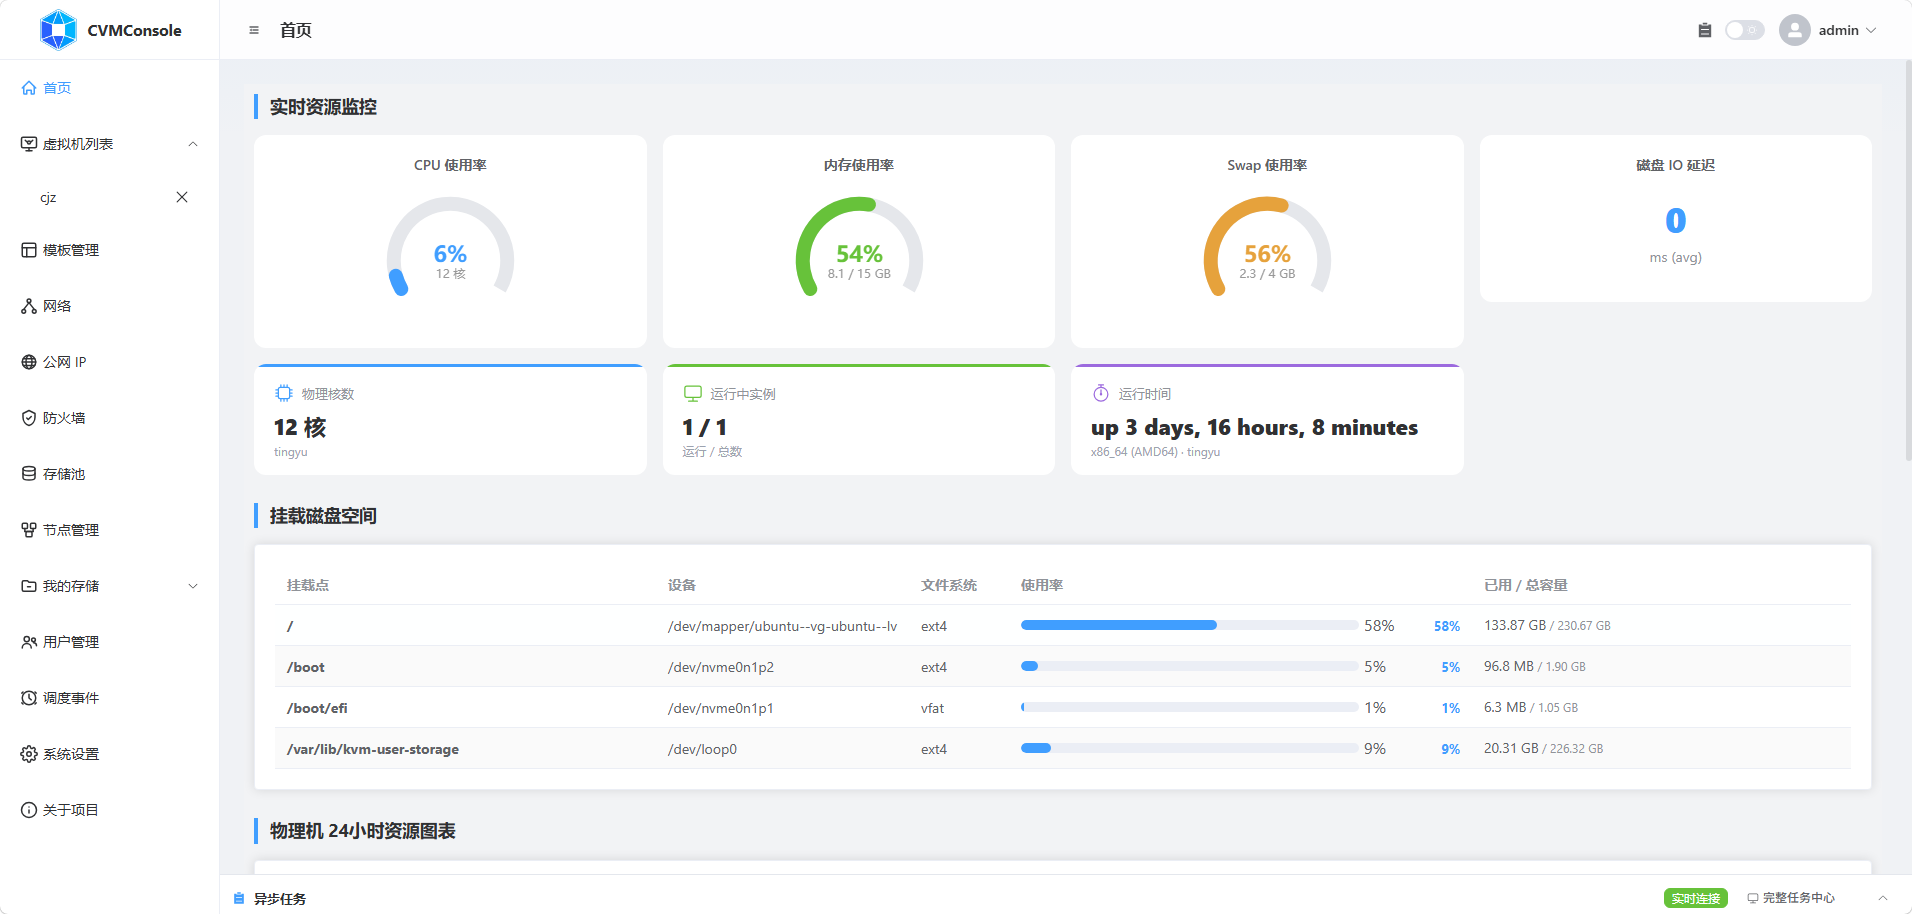
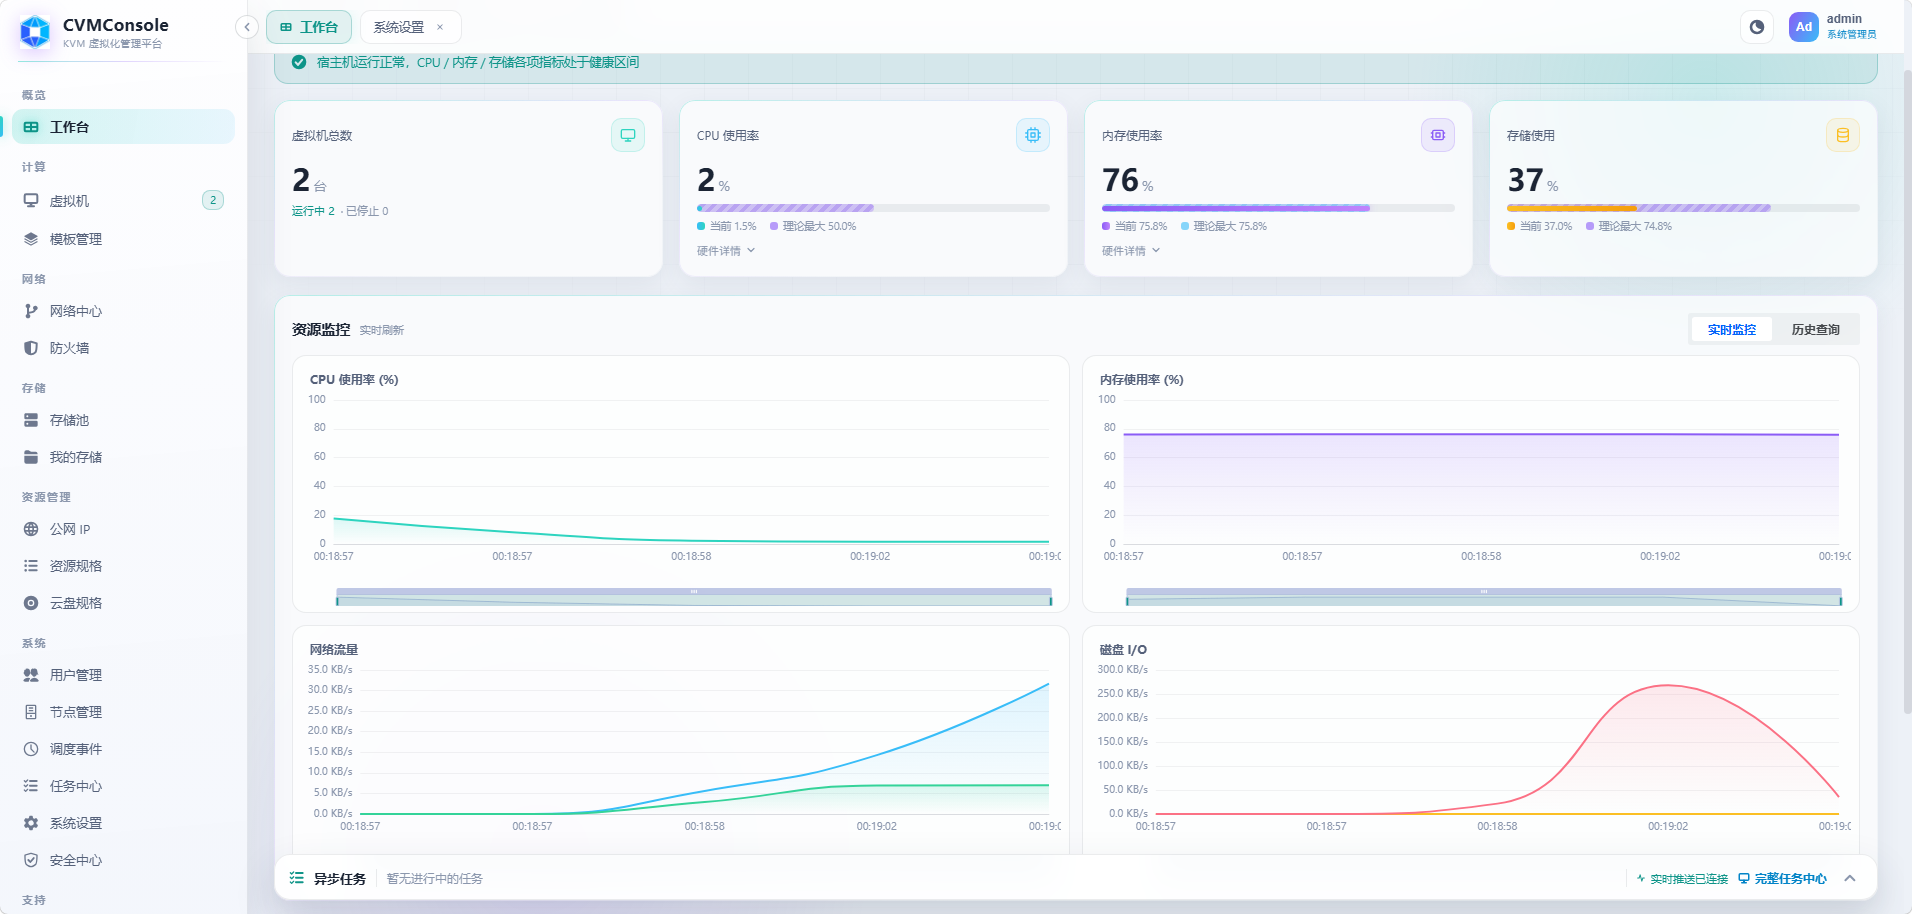
update README

diff --git a/README.md b/README.md
@@ -1,23 +1,15 @@
-# QVMConsole - 开源虚拟机管理控制台
+# CVMConsole - 开源虚拟机管理控制台
 
 <div align="center">
 
-<img width="2549" height="1333" alt="image" src="https://github.com/user-attachments/assets/1706a4b4-ac20-45cc-8612-1b2947dc5151" />
-
+<img width="2403" height="1257" alt="sudbsi" src="pic/首页.png" />
 
 [![License](https://img.shields.io/badge/License-Apache%202.0-blue.svg)](LICENSE)
-[![GitHub Stars](https://img.shields.io/github/stars/qvmconsole/qvmconsole?style=social)](https://github.com/qvmconsole/qvmconsole)
-[![GitHub Forks](https://img.shields.io/github/forks/qvmconsole/qvmconsole?style=social)](https://github.com/qvmconsole/qvmconsole)
-[![GitHub Issues](https://img.shields.io/github/issues/qvmconsole/qvmconsole)](https://github.com/qvmconsole/qvmconsole/issues)
-[![GitHub Pull Requests](https://img.shields.io/github/issues-pr/qvmconsole/qvmconsole)](https://github.com/qvmconsole/qvmconsole/pulls)
-
-[**官方网站**](https://www.qvmconsole.cn/) | [**文档站点**](https://qvmcdocs.xiaozhuhouses.asia/) | [**部署指南**](https://qvmcdocs.xiaozhuhouses.asia/docs/install/)
-
 </div>
 
 ## 项目简介
 
-QVMConsole 是一个面向小型企业和个人私有云服务场景的开源虚拟机管理平台，基于 KVM/QEMU 虚拟化技术深度集成，提供从虚拟机生命周期管理、网络与存储编排、快照与克隆、防火墙与带宽治理，到 Web 控制台与 API 一体化交付的完整解决方案。
+CVMConsole 是一个面向小型企业和个人私有云服务场景的开源虚拟机管理平台，基于 KVM/QEMU 虚拟化技术深度集成，提供从虚拟机生命周期管理、网络与存储编排、快照与克隆、防火墙与带宽治理，到 Web 控制台与 API 一体化交付的完整解决方案。
 
 ### 核心价值
 
@@ -38,6 +30,7 @@ QVMConsole 是一个面向小型企业和个人私有云服务场景的开源虚
 ### 网络虚拟化
 - VPC 逻辑交换机与安全组
 - 端口转发与静态 IP 管理
+- 桥接网络可预设dhcp网段，实现内网ip互联,与外部dhcp不冲突
 - 防火墙策略（VM/宿主机双层）
 - 网络诊断与抓包工具
 
@@ -50,7 +43,7 @@ QVMConsole 是一个面向小型企业和个人私有云服务场景的开源虚
 ### 用户权限与配额
 - 多租户支持（弹性云/轻量云）
 - 细粒度配额管理（CPU/内存/磁盘/VM 数/存储/带宽/流量/公网 IP/端口转发/快照）
-- SSH 访问控制与邀请注册流程
+- SSH 访问控制
 
 ### 监控与任务调度
 - VM/宿主机统计与历史数据
@@ -68,7 +61,6 @@ QVMConsole 是一个面向小型企业和个人私有云服务场景的开源虚
 - **统一克隆架构**：支持完整克隆与链式克隆两种模式，完整克隆产生独立磁盘镜像，链式克隆基于 backing chain 实现快速部署
 - **系统初始化控制**：可禁用系统初始化，保持模板原始系统配置；支持阻塞式/非阻塞式启动后命令执行
 - **智能引导检测**：自动检测 UEFI/BIOS 引导类型，复制 NVRAM 路径，确保跨架构兼容性
-- **OpenWrt 双模式初始化**：自动检测 ext4 根分区和 squashfs+overlay 两种磁盘布局，智能选择 virt-customize 或 guestfish 注入网络配置
 - **Windows ConfigDrive**：符合 OpenStack 标准的 ISO 镜像，通过 cloudbase-init 自动完成主机名、密码等初始化配置
 - **元数据驱动**：模板类型、分类、默认硬件配置、哈希校验、模板族关系等均由 `.meta.json` 元数据文件管理
 - **版本与完整性校验**：MD5 + SHA256 双重哈希校验，确保模板磁盘完整性
@@ -78,22 +70,14 @@ QVMConsole 是一个面向小型企业和个人私有云服务场景的开源虚
 
 ### 后端
 - **语言**: Go 1.26.0
-- **语言**: Go 1.26.0
 - **Web 框架**: Gin v1.12.0
 - **数据库**: SQLite + GORM v1.31.1
 - **虚拟化**: go-libvirt RPC
 - **认证**: JWT v5.3.1 + TOTP v1.5.0 + crypto
 - **WebSocket**: gorilla/websocket v1.5.3
-- **认证**: JWT v5.3.1 + TOTP v1.5.0 + crypto
-- **WebSocket**: gorilla/websocket v1.5.3
 - **日志**: lumberjack v2.2.1
 
 ### 前端
-- **UI 框架**: React v19.2.7 + TypeScript v6.0.2
-- **组件库**: Semi Design v2.101.1（@douyinfe/semi-ui）
-- **构建工具**: Vite v8.1.1
-- **路由**: react-router-dom v7.18.1
-- **状态管理**: Zustand v5.0.14
 - **UI 框架**: React v19.2.7 + TypeScript v6.0.2
 - **组件库**: Semi Design v2.101.1（@douyinfe/semi-ui）
 - **构建工具**: Vite v8.1.1
@@ -123,40 +107,29 @@ QVMConsole 是一个面向小型企业和个人私有云服务场景的开源虚
 - **依赖工具**: genisoimage（用于 Windows 虚拟机初始化）
 
 ### 开发贡献指南
-作为一个由独立开发者维护的大型开源项目，QVMConsole 需要社区贡献者的支持才能持续完善。我们欢迎并鼓励您使用 AI 等工具进行功能修复与开发，但请务必遵守以下准则：
+作为一个由独立开发者维护的大型开源项目，CVMConsole 需要社区贡献者的支持才能持续完善。我们欢迎并鼓励您使用 AI 等工具进行功能修复与开发，但请务必遵守以下准则：
 
 1. **规则遵守**：在使用 AI 工具时，必须将根目录的 `AGENTS.md` 文件作为核心提示词规则
-2. **功能边界**：开源版本中不得提交包含 Pro 版功能的代码。Pro 版功能清单详见：[赞助功能说明](https://qvmcdocs.xiaozhuhouses.asia/docs/install/sponsorship)
-3. **场景通用性**：提交的功能应面向通用化使用场景，符合广大用户的需求。针对特定场景的定制功能建议自行 fork 仓库维护
+2. **场景通用性**：提交的功能应面向通用化使用场景，符合广大用户的需求。针对特定场景的定制功能建议自行 fork 仓库维护
 
 ### 安全漏洞报告
 如果您发现项目存在安全漏洞，无论严重程度如何，请勿在 GitHub Issues 中公开报告，以避免安全风险被恶意利用。
 
 **安全报告渠道**：
-- 作者QQ：3354416548
-- 电子邮件：xiaozhuhs@foxmail.com
+- 作者QQ：598941324
+- 电子邮件：598941324@qq.com
 
 ---
 
-## 合并上游修改
-
-当标准仓库后端有修改时，请参阅 [`docs/merge-from-upstream.md`](docs/merge-from-upstream.md) 获取详细合并指南。
-
-核心原则：
-1. 只合并 `server/` 目录的后端修改
-2. 拒绝合并 `web/` 目录的任何前端修改
-3. 本仓库的 `web-backup/`、`.gitignore`、`docs/` 中的独有内容不会被上游覆盖
-
 ## 致谢
 
-感谢所有为 QVMConsole 做出贡献的开发者！
+感谢所有为 CVMConsole 做出贡献的开发者、AI智能体，此项目根据交付经验，与AI达成一致，造好轮子，用好轮子！
 
 ---
 
 <div align="center">
 
-**QVMConsole** - 让虚拟化管理更简单
+**CVMConsole** - 让虚拟化管理更简单
 
-[官方网站](https://www.qvmconsole.cn/) | [文档站点](https://qvmcdocs.xiaozhuhouses.asia/) | [部署指南](https://qvmcdocs.xiaozhuhouses.asia/docs/install/)
 
 </div>
